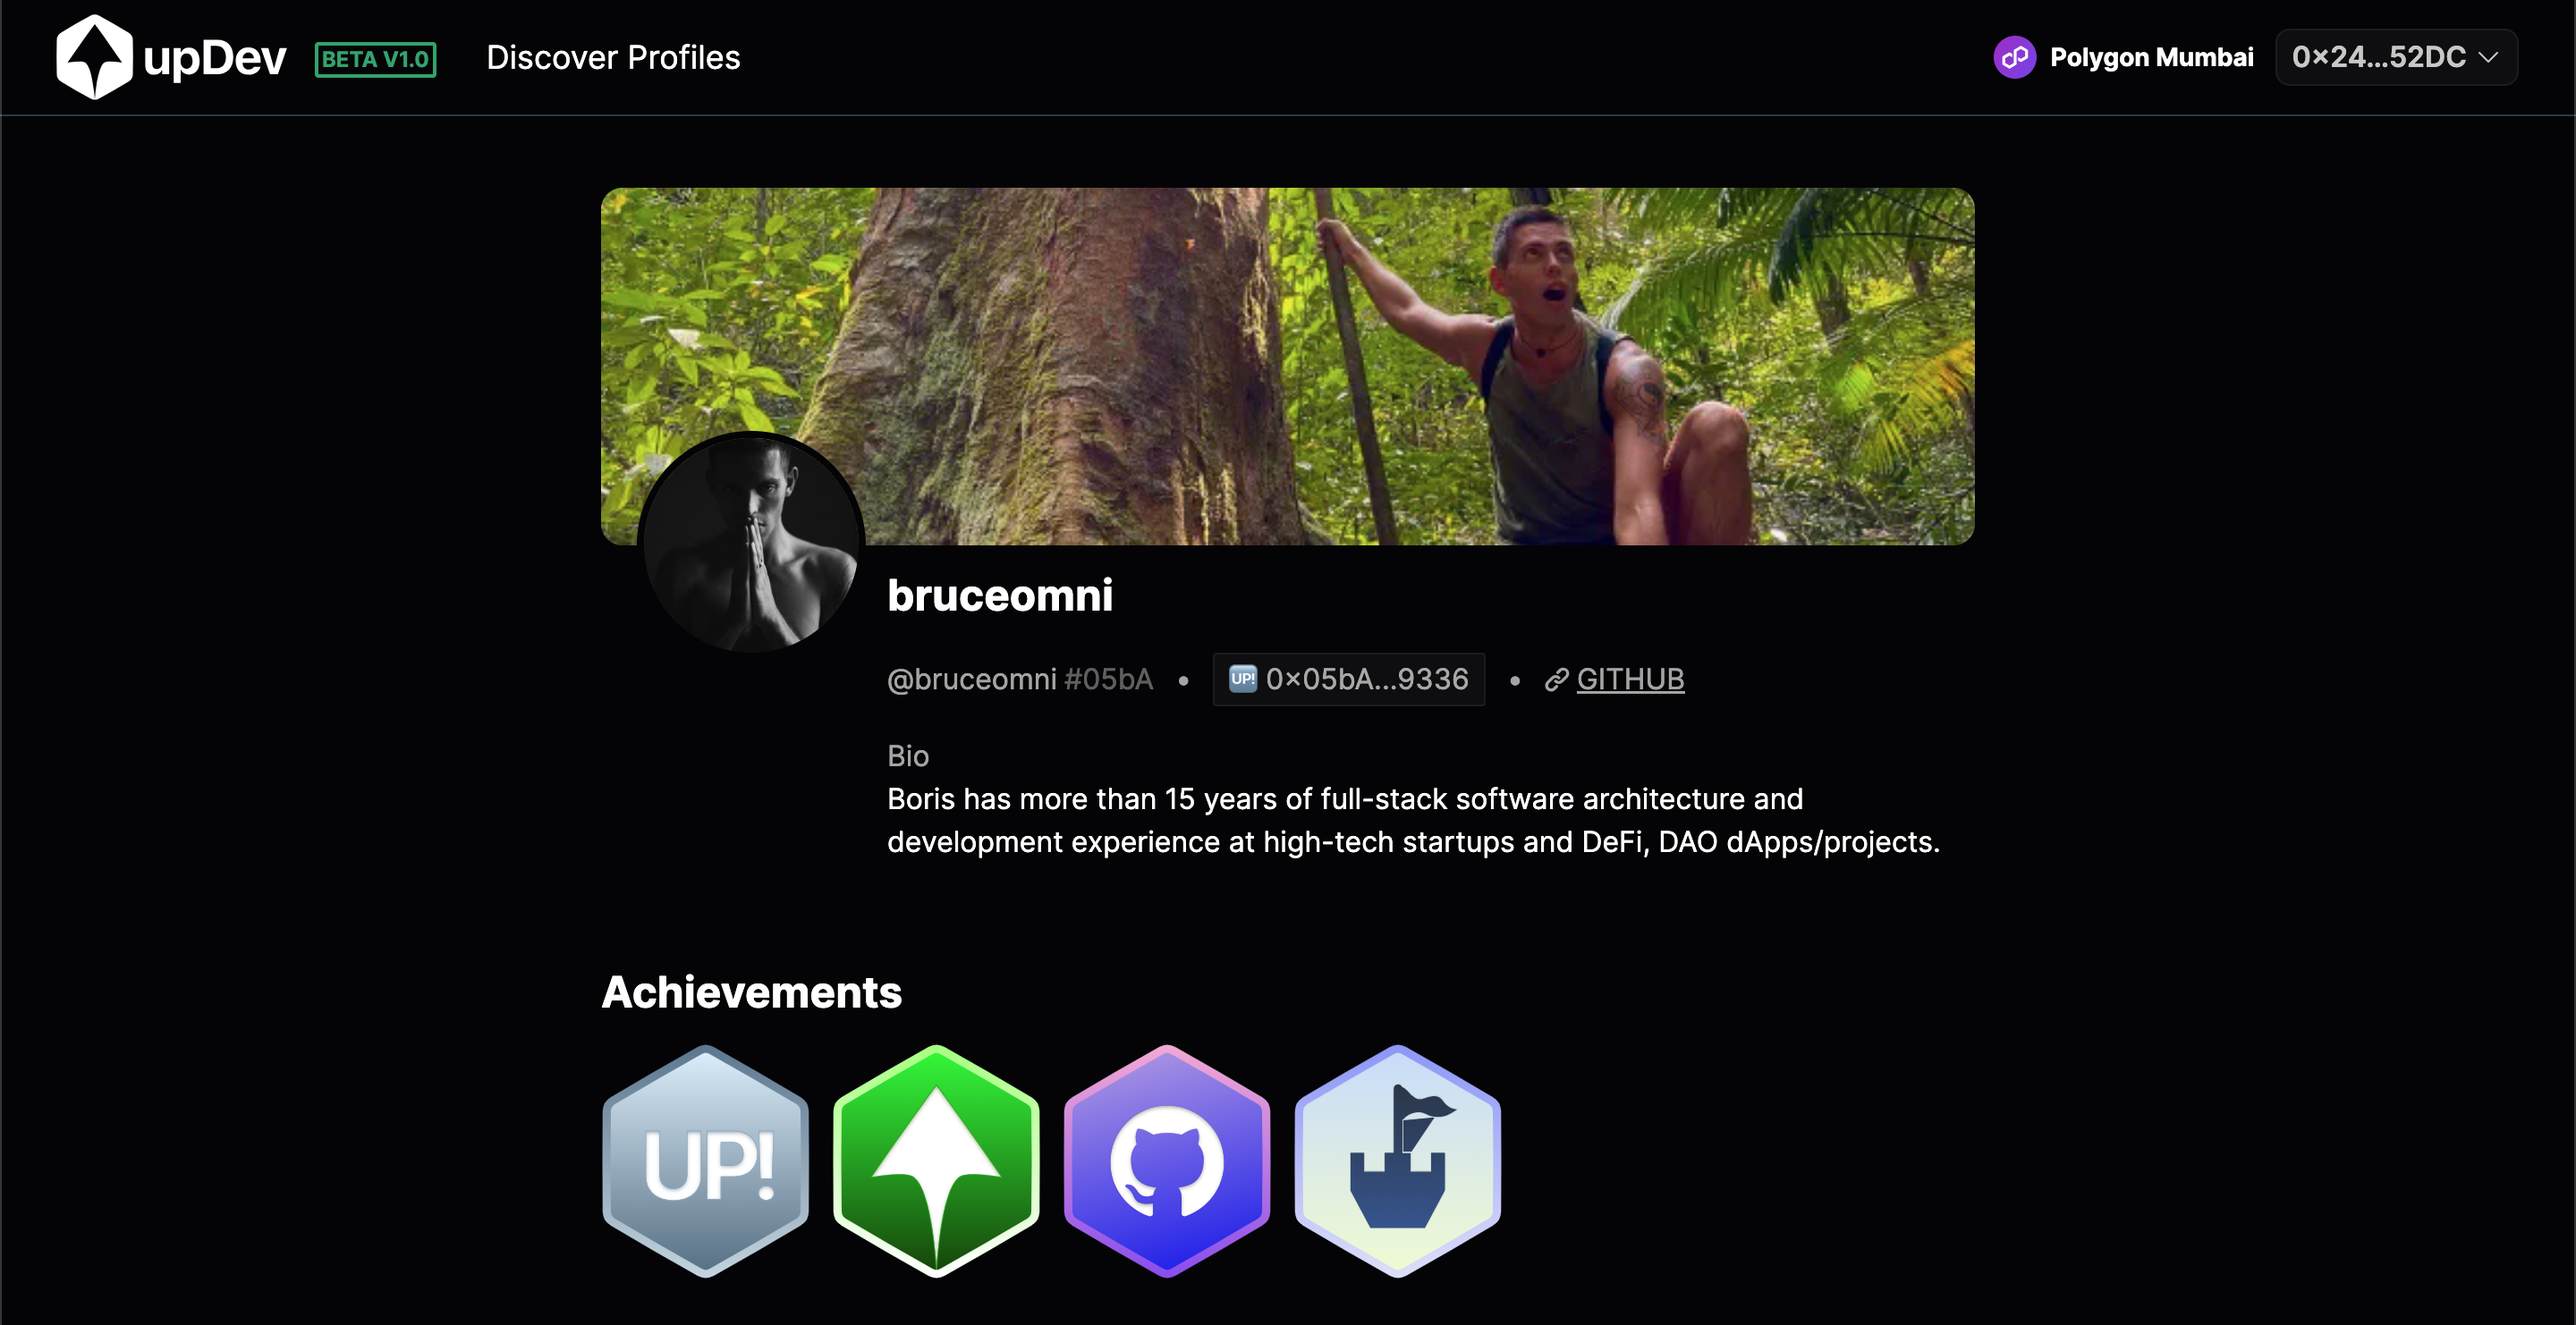
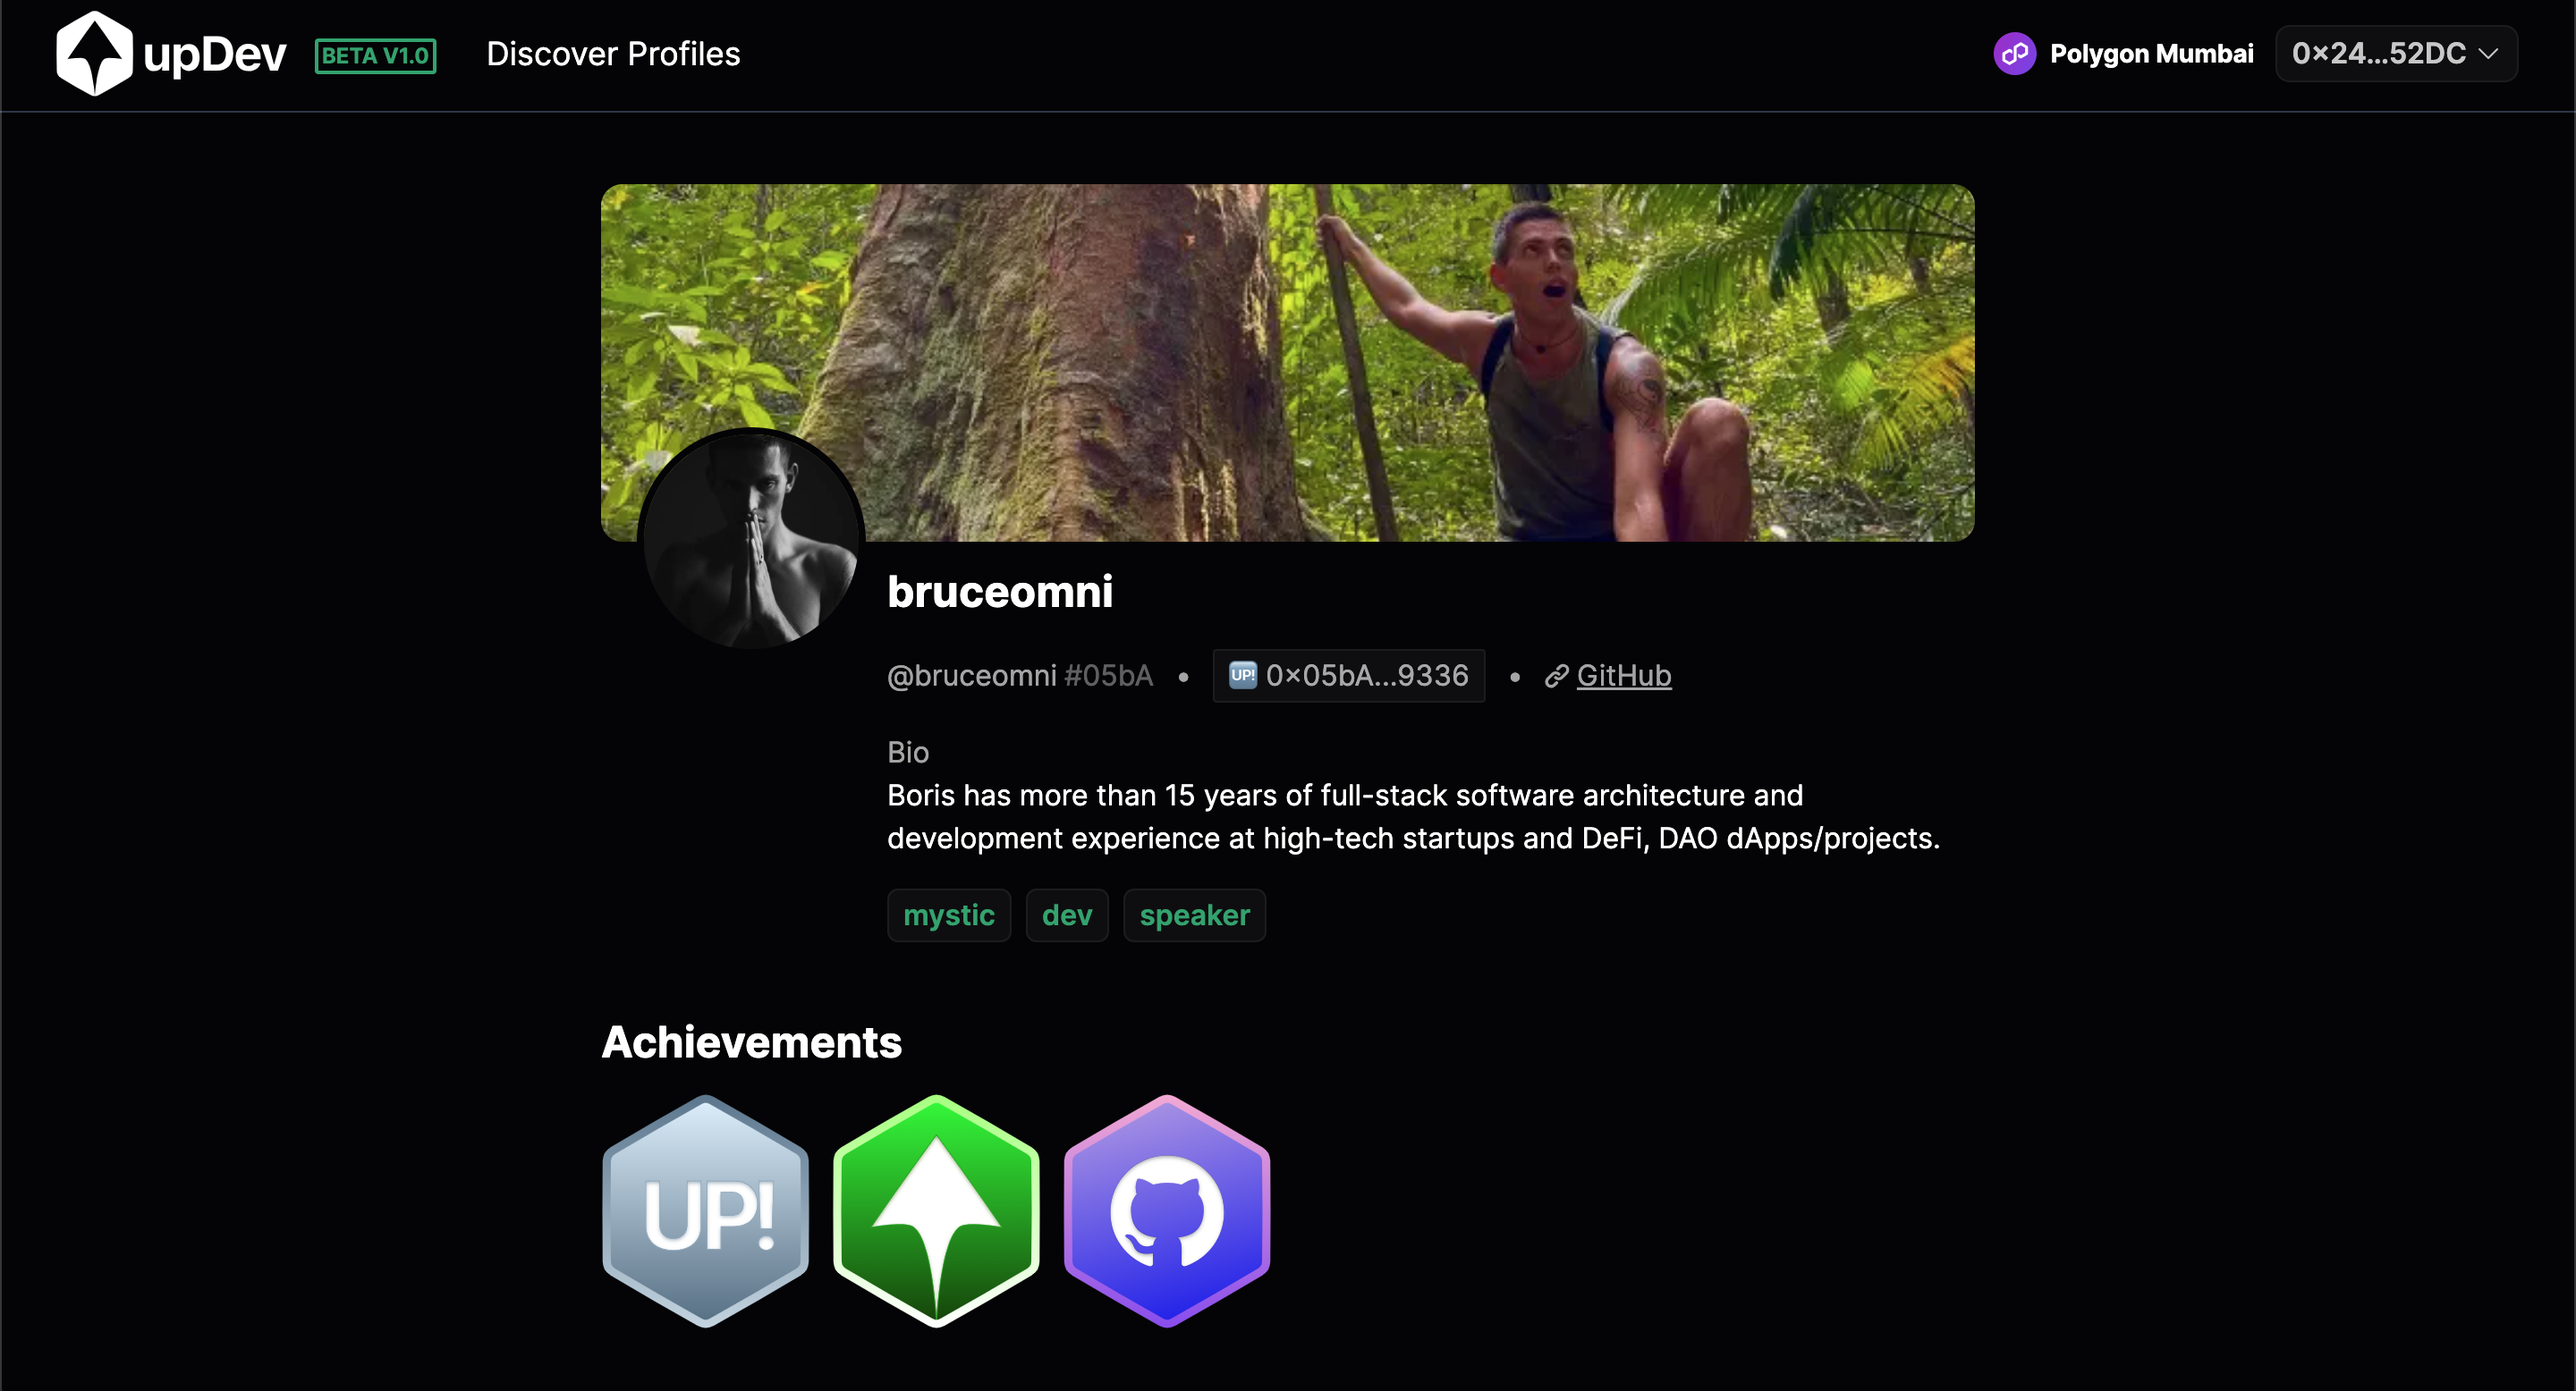
profile: event filters fix, proved links

diff --git a/packages/nextjs/pages/profile/[address].tsx b/packages/nextjs/pages/profile/[address].tsx
@@ -35,7 +35,7 @@ const Profile: NextPage = () => {
     // @ts-ignore
     watch: true,
     // Apply filters to the event based on parameter names and values { [parameterName]: value },
-    filters: { up: profile && profile[0] },
+    filters: { up: address },
     // If set to true it will return the block data for each event (default: false)
     blockData: false,
     // If set to true it will return the transaction data for each event (default: false),
@@ -94,12 +94,23 @@ const Profile: NextPage = () => {
     }
   }, [isLoading, profile]);
 
-  if (!metadata)
+  if (!metadata) {
     return (
       <div className="flex justify-center grow">
         <span className="loading loading-spinner loading-lg"></span>
       </div>
     );
+  }
+
+  const isOwned = (
+    source: string, // TODO refactor
+  ) => events && events.some(obj => obj.args && obj.args.source === source && obj.args.isOwned == true);
+
+  const getId = (source: string): string | undefined => {
+    const e = events && events.find(obj => obj.args && obj.args.source === source && obj.args.id);
+
+    return e ? e.args.id : undefined;
+  };
 
   return (
     <div className="flex flex-col items-center py-10">
@@ -138,8 +149,39 @@ const Profile: NextPage = () => {
               <div className="bg-base-100 border border-base-200 rounded-sm px-2 p-0.5">
                 🆙 <span className="text-[#FFFFFFA3]">{address.slice(0, 6) + "..." + address.slice(-4)}</span>
               </div>
-              <div className="text-[#FFFFFFA3]">{"\u2022"}</div>
-              {metadata.LSP3Profile.links.map((link: { title: string; url: string }, index: number) => (
+              {isOwned("github") && (
+                <>
+                  <div className="text-[#FFFFFFA3]">{"\u2022"}</div>
+                  <a
+                    href={"https://github.com/" + getId("github")}
+                    target="_blank"
+                    rel="noopener noreferrer"
+                    className="flex items-center gap-1"
+                  >
+                    <div>
+                      <Image width={14} height={14} alt="achievement icon" src="/link.svg" />
+                    </div>
+                    <div className="text-[#FFFFFFA3] underline mr-2">GitHub</div>
+                  </a>
+                </>
+              )}
+              {isOwned("buidlguidl") && (
+                <>
+                  <div className="text-[#FFFFFFA3]">{"\u2022"}</div>
+                  <a
+                    href={"https://app.buidlguidl.com/builders/" + getId("buidlguidl")}
+                    target="_blank"
+                    rel="noopener noreferrer"
+                    className="flex items-center gap-1"
+                  >
+                    <div>
+                      <Image width={14} height={14} alt="achievement icon" src="/link.svg" />
+                    </div>
+                    <div className="text-[#FFFFFFA3] underline mr-2">BuidlGuidl</div>
+                  </a>
+                </>
+              )}
+              {/* {metadata.LSP3Profile.links.map((link: { title: string; url: string }, index: number) => (
                 <a
                   href={link.url}
                   target="_blank"
@@ -153,7 +195,7 @@ const Profile: NextPage = () => {
                   <div className="text-[#FFFFFFA3] underline mr-2">{link.title}</div>
                   {index < metadata.LSP3Profile.links.length - 1 && <div className="text-[#FFFFFFA3]">{"\u2022"}</div>}
                 </a>
-              ))}
+              ))} */}
             </div>
           </div>
           <div>
@@ -176,11 +218,11 @@ const Profile: NextPage = () => {
           <div className="flex gap-3">
             <Image width={117} height={117} alt="achievement icon" src="/achievements/up.svg" />
             <Image width={117} height={117} alt="achievement icon" src="/achievements/og-updev.svg" />
-            {events && events.some(obj => obj.args && obj.args.source === "github" && obj.args.isOwned == true) && (
+            {isOwned("github") && (
               <Image width={117} height={117} alt="achievement icon" src="/achievements/github.svg" />
             )}
             {/* <Image width={117} height={117} alt="achievement icon" src="/achievements/buildbox.svg" /> */}
-            {events && events.some(obj => obj.args && obj.args.source === "buidlguidl" && obj.args.isOwned == true) && (
+            {isOwned("buidlguidl") && (
               <Image width={117} height={117} alt="achievement icon" src="/achievements/buidlguidl.svg" />
             )}
           </div>
